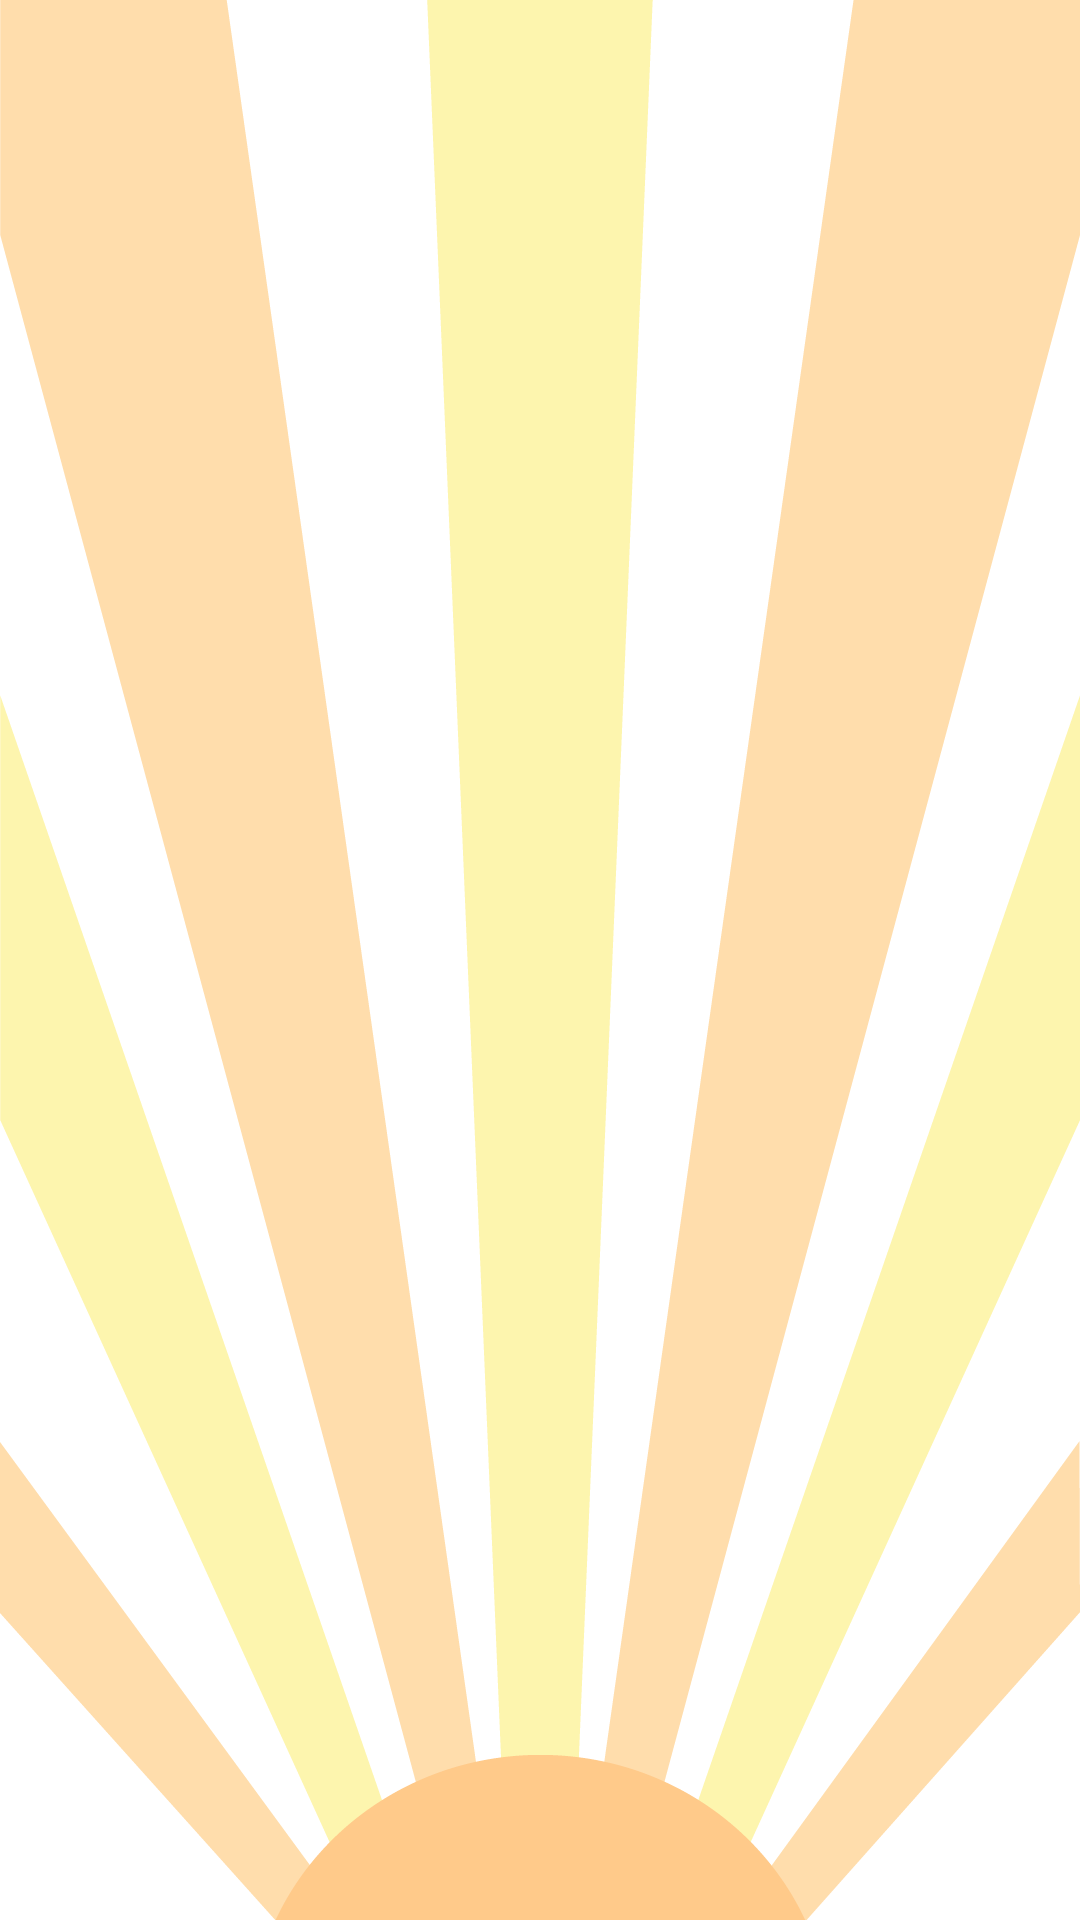
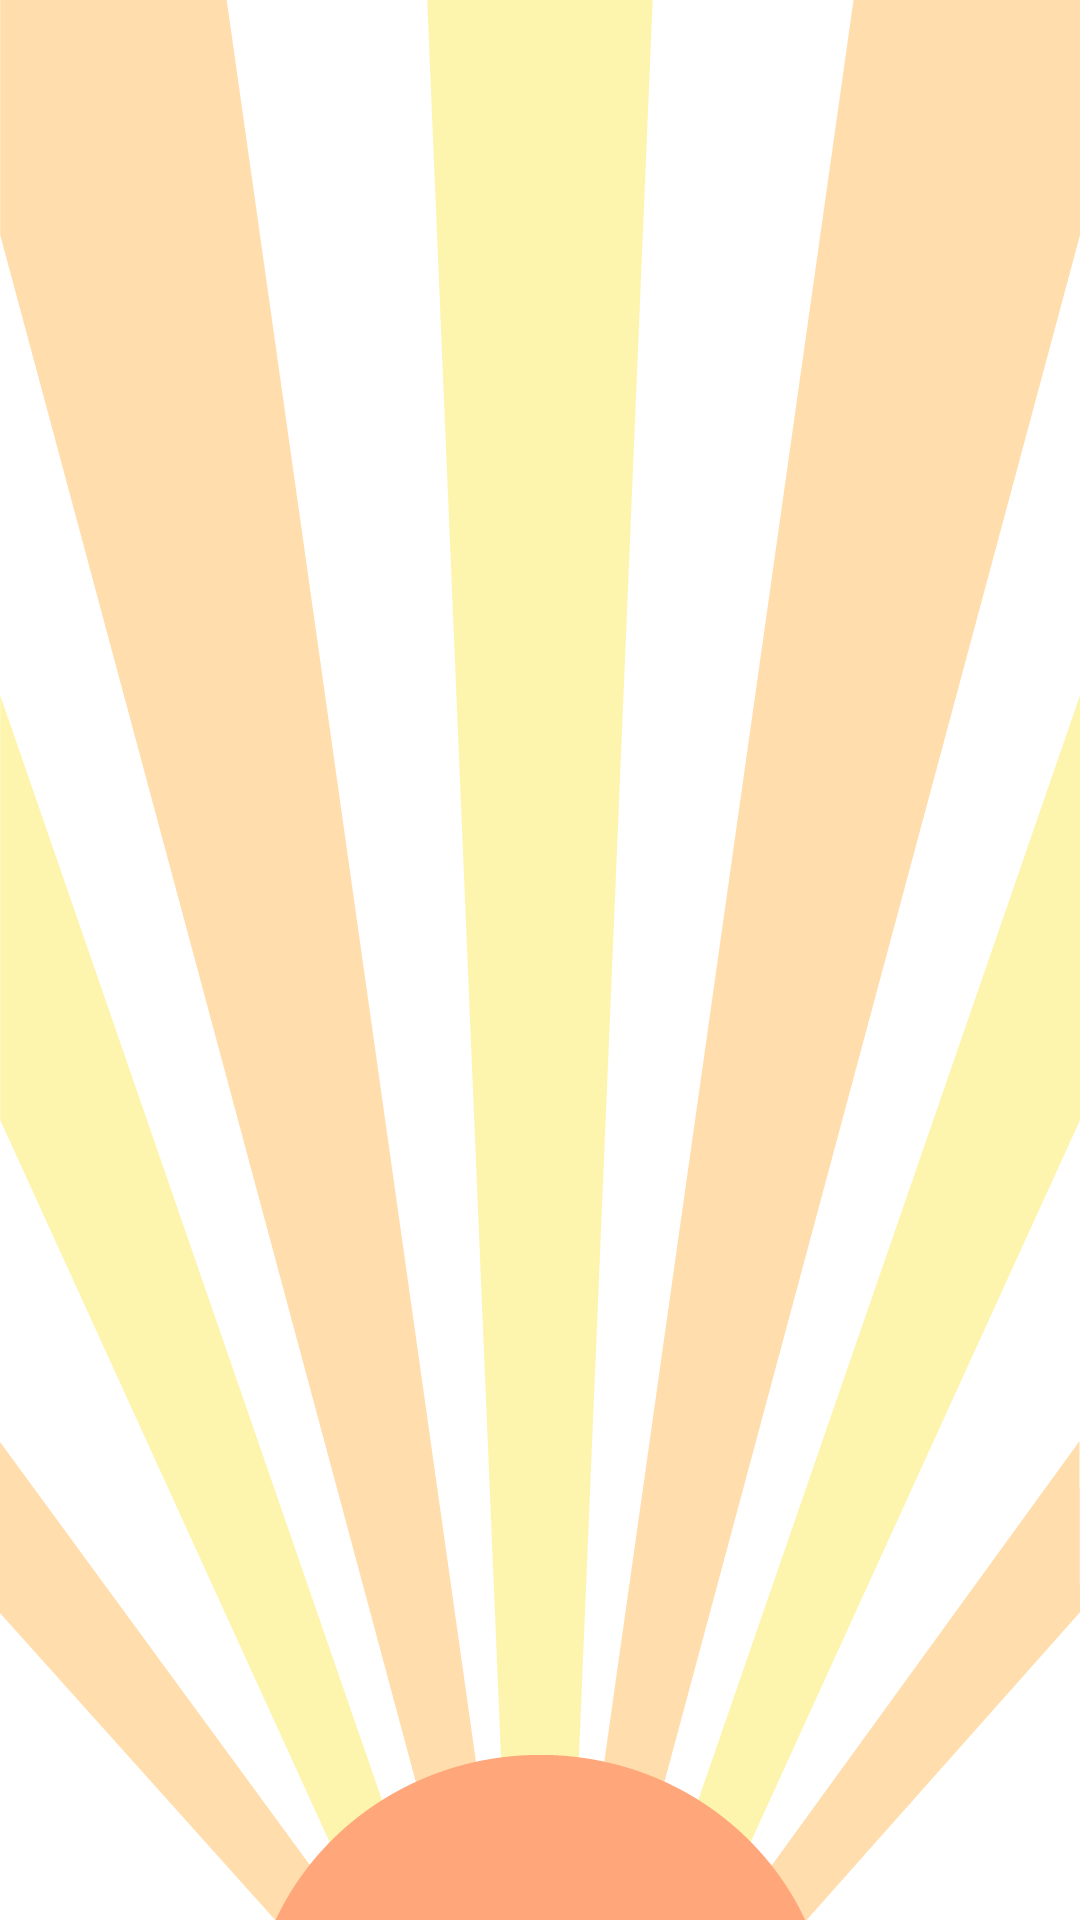
changed sun background

Changed region(s): [[0.2444, 0.9062, 0.7333, 1.0]]

diff --git a/object-meditation/the-sun/style.css b/object-meditation/the-sun/style.css
@@ -104,7 +104,7 @@ div.container {
 }
 
 .day {
-  color: black;
+  color: #fa7976;
 }
 
 /* Display set to "none" for mobile version html elements */
